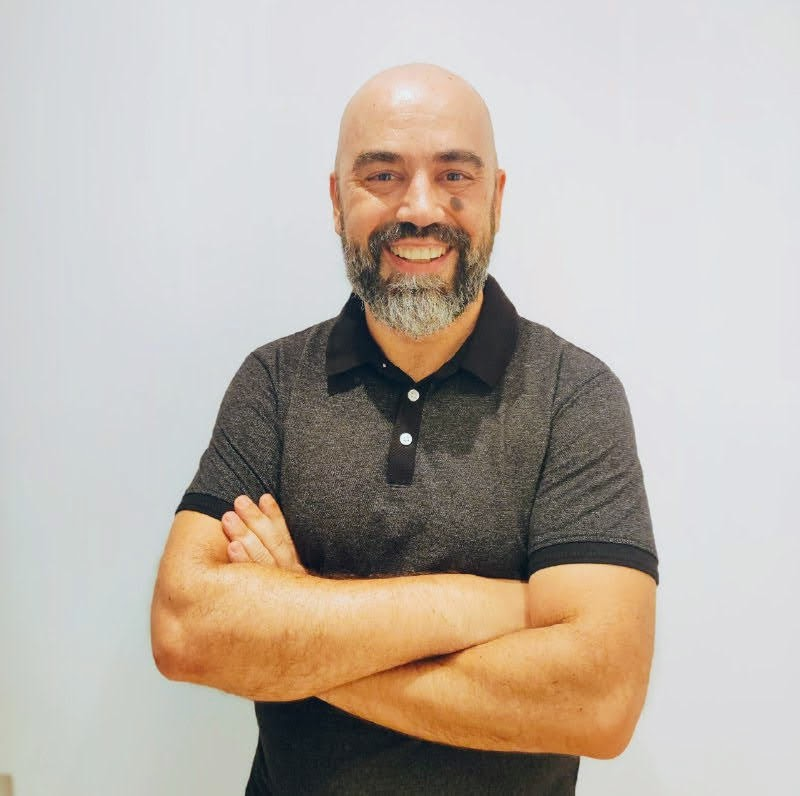
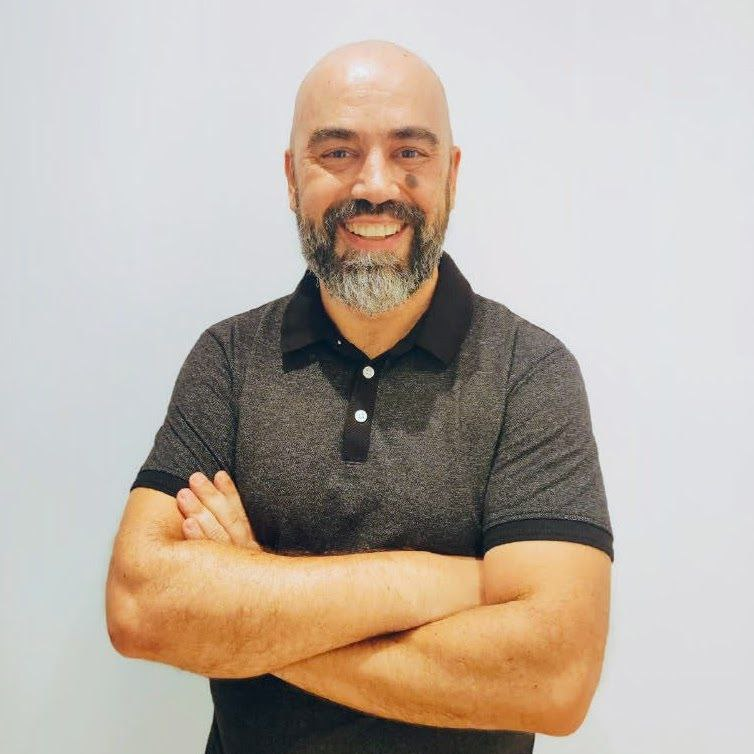
biopic

Changed region(s): [[0.122, 0.0305, 0.8236, 1.0], [0.0, 0.9456, 0.0305, 1.0]]

diff --git a/partials/home.html b/partials/home.html
@@ -7,7 +7,7 @@
                 <p>This is Alvaro Cabanillas, Full Stack Developer located in Barcelona, looking for working around the globe</p>
             </div>
             <div class="col-md-6">
-                <img src="assets/images/biopic.jpg" width="400px"> </img>
+                <img src="assets/images/biopic.jpg" width="400px" style="border-radius: 30px;"> </img>
             </div>
         </div>
         <div class="text-center" style="margin:50px">
